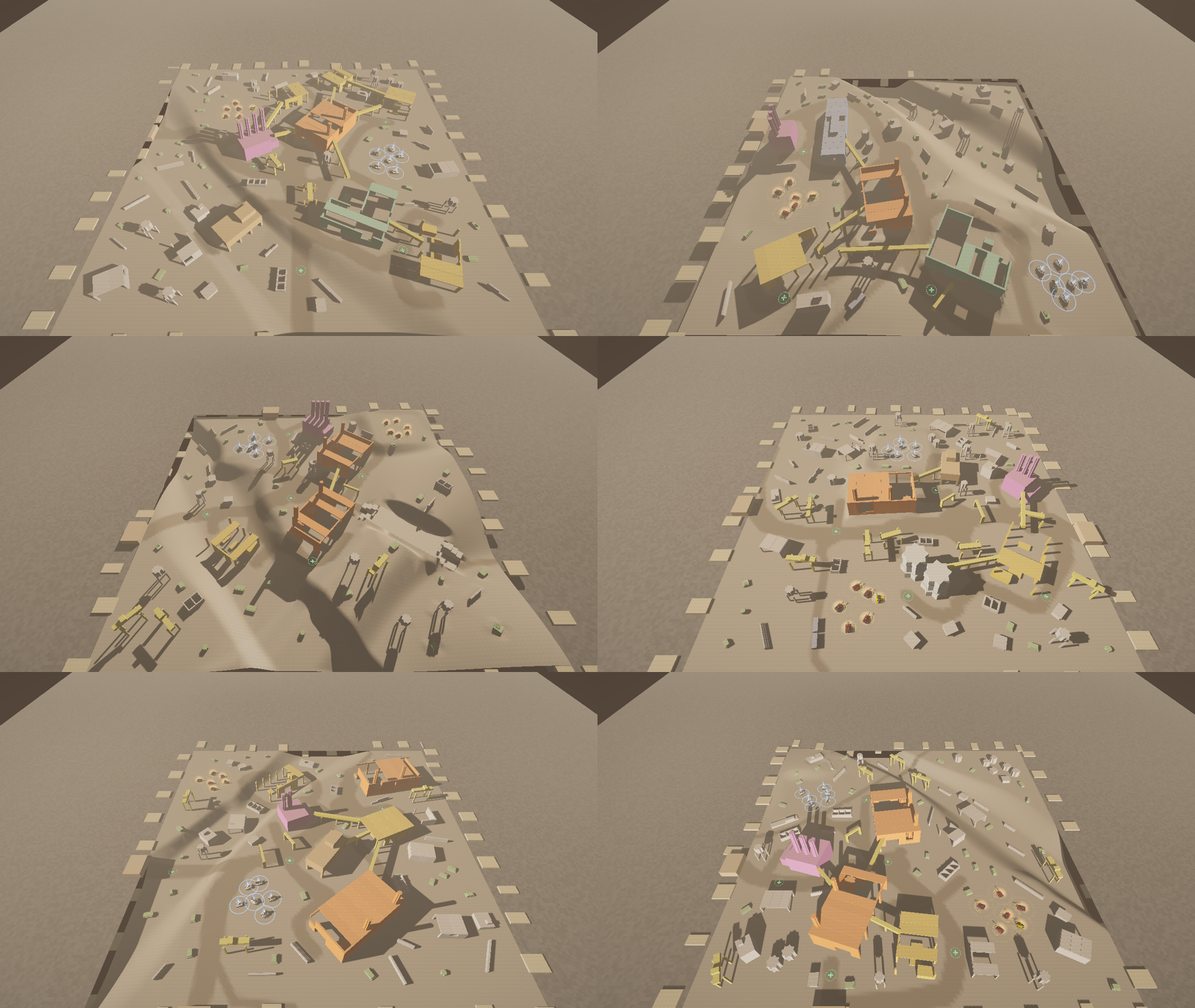
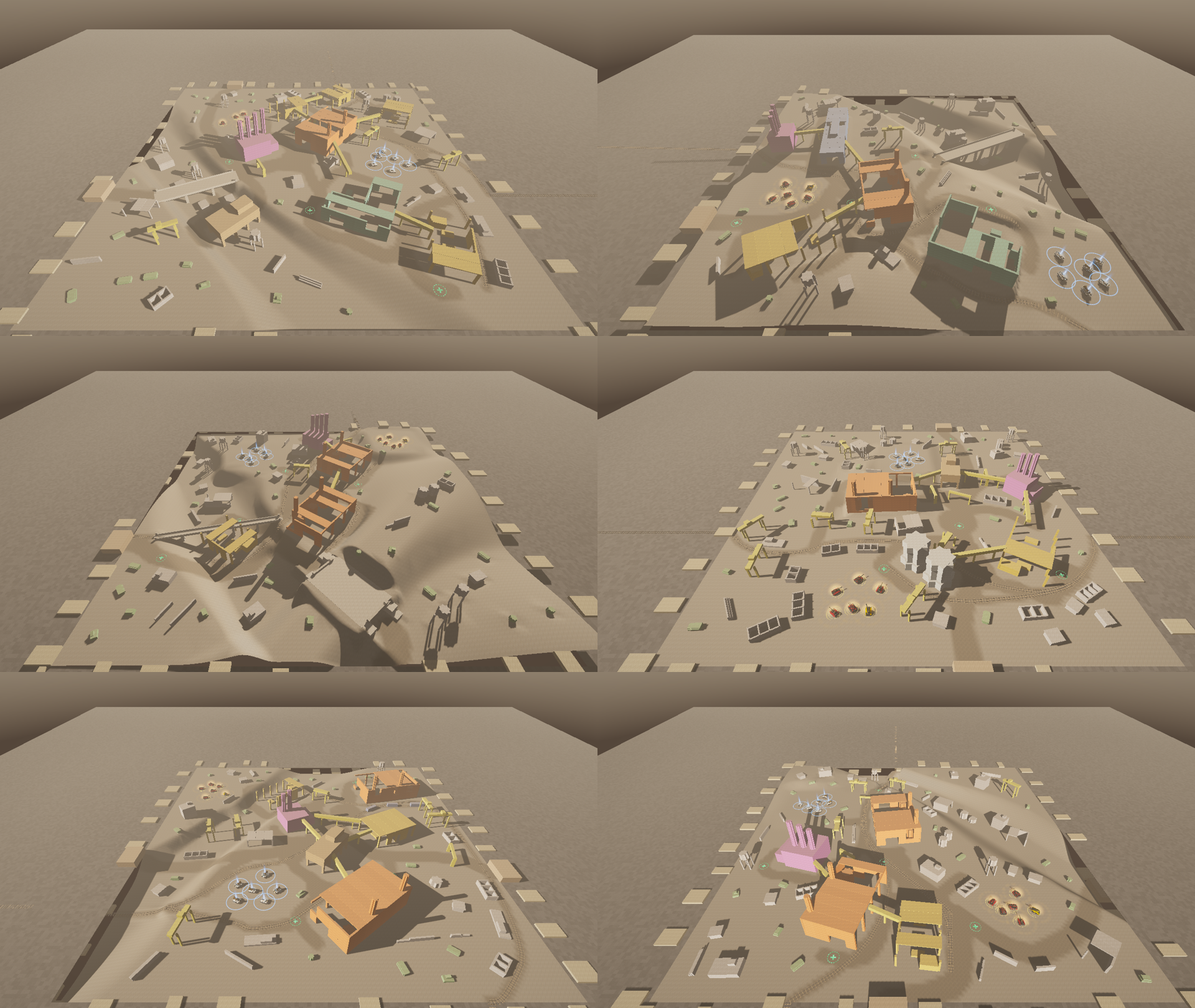
Foundry railways: on and off the map, graded, bridged, with spurs (WIP)
Claude-Session: https://claude.ai/code/session_01MEmTqE22jbLkJq7ubPzYog

diff --git a/src/map/procgen/foundry/plan.rs b/src/map/procgen/foundry/plan.rs
@@ -70,6 +70,7 @@ pub fn skeleton(rng: &mut Rng, look: Look) -> Skeleton {
         decos: Vec::new(),
         repair_spots: Vec::new(),
         crossings: Vec::new(),
+        rails: Vec::new(),
     };
     let a = rng.range(0.0, TAU);
     let habit = match look {
@@ -79,7 +80,9 @@ pub fn skeleton(rng: &mut Rng, look: Look) -> Skeleton {
         Look::Ithessar => Habit::Ring,
     };
     plant(&mut sk, rng, habit);
+    railway(&mut sk, rng);
     roads(&mut sk, rng);
+    bed(&mut sk);
     yard(&mut sk, rng);
     cover(&mut sk, rng);
     repairs(&mut sk, rng);
@@ -361,7 +364,167 @@ fn lay(
     true
 }
 
-/// The railway across, the haul road past the heart, a road to every door
+/// Corners cut off, twice: as easy a curve as a train wants.
+fn eased(pts: &[Vec2]) -> Vec<Vec2> {
+    let mut line = pts.to_vec();
+    for _ in 0..2 {
+        let mut out = vec![line[0]];
+        for w in line.windows(3) {
+            out.push(w[1].lerp(w[0], 0.25));
+            out.push(w[1].lerp(w[2], 0.25));
+        }
+        out.push(*line.last().unwrap());
+        out.dedup_by(|p, q| p.distance(*q) < 0.5);
+        line = out;
+    }
+    line
+}
+
+/// How far past the edge a line's seen running on.
+const RUN_ON: f32 = 150.0;
+
+/// The railway: in over one edge, by the buildings it serves, out over
+/// another; then spurs off it to others.
+fn railway(sk: &mut Skeleton, rng: &mut Rng) {
+    let size = sk.size;
+    let half = 2.6;
+    // Beside a building, along its long wall.
+    let halt = |l: &Lot, s: f32| {
+        let (ax, az) = l.footprint.axes();
+        let h = l.footprint.half;
+        let off = ax * s * (h.x + half + 3.0);
+        (l.at() + off - az * h.y, l.at() + off + az * h.y)
+    };
+    let clear = |sk: &Skeleton, p: Vec2| {
+        p.min_element() > 8.0
+            && p.max_element() < size - 8.0
+            && sk.lots.iter().all(|l| l.footprint.distance(p) > half + 1.6)
+            && sk.bases.iter().all(|b| b.middle().distance(p) > PAD + half)
+    };
+    let big: Vec<Lot> = sk.lots.clone();
+    let add = |sk: &mut Skeleton, pts: &[Vec2]| {
+        for w in pts.windows(2) {
+            sk.streets.push(Street {
+                from: w[0],
+                to: w[1],
+                half,
+                clear: 2.0,
+                rank: Rank::Rail,
+                out: false,
+            });
+        }
+    };
+    for _ in 0..60 {
+        let (k, turn) = (rng.index(4), 1 + rng.index(3));
+        let ends = [k, k + turn].map(|e| {
+            let (start, along, inward) = city::sides(size)[e % 4];
+            (start + along * size * rng.range(0.15, 0.85), -inward)
+        });
+        let serve = big[rng.index(big.len())];
+        let (p, q) = halt(&serve, if rng.chance(0.5) { 1.0 } else { -1.0 });
+        if ends[0].0.distance(ends[1].0) < size * 0.6
+            || ![p, q, p.lerp(q, 0.5)].iter().all(|&x| clear(sk, x))
+        {
+            continue;
+        }
+        let (p, q) = if p.distance(ends[0].0) < q.distance(ends[0].0) {
+            (p, q)
+        } else {
+            (q, p)
+        };
+        let (Some(a), Some(b)) = (
+            way(sk, rng, (ends[0].0, p), half),
+            way(sk, rng, (q, ends[1].0), half),
+        ) else {
+            continue;
+        };
+        let pts: Vec<Vec2> = a.into_iter().chain(b).collect();
+        // Not back on itself.
+        let sharp = pts.windows(3).any(|w| {
+            let (d, e) = (w[1] - w[0], w[2] - w[1]);
+            d.normalize_or(Vec2::X).dot(e.normalize_or(Vec2::X)) < 0.1
+        });
+        if sharp {
+            continue;
+        }
+        let line = eased(&pts);
+        add(sk, &line);
+        let mut whole = vec![ends[0].0 + ends[0].1 * RUN_ON];
+        whole.extend(&line);
+        whole.push(ends[1].0 + ends[1].1 * RUN_ON);
+        sk.rails.push(whole);
+        break;
+    }
+    let Some(main) = sk.rails.first().cloned() else {
+        return;
+    };
+    // Spurs: off the line, up to another building's wall.
+    let mut want = rng.int(1, 2);
+    for _ in 0..40 {
+        if want == 0 {
+            break;
+        }
+        let l = big[rng.index(big.len())];
+        let (p, q) = halt(&l, if rng.chance(0.5) { 1.0 } else { -1.0 });
+        let k = 2 + rng.index(main.len().saturating_sub(4).max(1));
+        let Some(&from) = main.get(k) else { continue };
+        let far = main
+            .iter()
+            .all(|m| m.distance(p) > 22.0 && m.distance(q) > 22.0);
+        if !far || !clear(sk, p) || !clear(sk, q) || !clear(sk, from) {
+            continue;
+        }
+        let (p, q) = if p.distance(from) < q.distance(from) {
+            (p, q)
+        } else {
+            (q, p)
+        };
+        if let Some(mut pts) = way(sk, rng, (from, p), half) {
+            pts.push(q);
+            // It leaves the line the way the line runs, near enough.
+            let lead = (main[k] - main[k - 1]).normalize_or(Vec2::X);
+            let turn = (pts[1] - pts[0]).normalize_or(Vec2::X).dot(lead).abs();
+            if turn < 0.5 {
+                continue;
+            }
+            let line = eased(&pts);
+            add(sk, &line);
+            sk.rails.push(line);
+            want -= 1;
+        }
+    }
+}
+
+/// Grades the ground under the rails, off the bridges and tunnels.
+fn bed(sk: &mut Skeleton) {
+    for line in sk.rails.clone() {
+        let mut fine = Vec::new();
+        for w in line.windows(2) {
+            let n = (w[0].distance(w[1]) / 4.0).ceil().max(1.0) as i32;
+            fine.extend((0..n).map(|k| w[0].lerp(w[1], k as f32 / n as f32)));
+        }
+        let h: Vec<f32> = fine.iter().map(|&p| sk.land.base(p)).collect();
+        for k in 1..fine.len().saturating_sub(1) {
+            let p = fine[k];
+            let outside = p.min_element() < -8.0 || p.max_element() > sk.size + 8.0;
+            if outside || sk.crossings.iter().any(|c| c.distance(p) < 16.0) {
+                continue;
+            }
+            let (a, b) = (k.saturating_sub(5), (k + 6).min(h.len()));
+            let mean = h[a..b].iter().sum::<f32>() / (b - a) as f32;
+            let d = fine[k + 1] - fine[k - 1];
+            let strip = OBox {
+                center: p,
+                yaw: d.x.atan2(d.y),
+                half: Vec2::new(1.6, 2.4),
+                ..OBox::default()
+            };
+            sk.land.level_at(strip, 0.8, 5.0, mean);
+        }
+    }
+}
+
+/// The haul road past the heart, a road to every door
 /// and base, and a few more to make loops of it.
 fn roads(sk: &mut Skeleton, rng: &mut Rng) {
     let size = sk.size;
@@ -383,15 +546,6 @@ fn roads(sk: &mut Skeleton, rng: &mut Rng) {
                 mouths[side % 4].push((t - 9.0, t + 9.0));
                 break;
             }
-        }
-    }
-    // The railway, clear across, off to one side of it.
-    let r = rng.index(4);
-    for _ in 0..24 {
-        let other = r + 1 + rng.index(3);
-        let (a, b) = (edge(rng, r), edge(rng, other));
-        if a.distance(b) > size * 0.6 && lay(sk, rng, (a, b), 2.6, Rank::Rail, true) {
-            break;
         }
     }
     // Doors and bases onto the nearest road so far, nearest first.

diff --git a/src/map/procgen/skeleton.rs b/src/map/procgen/skeleton.rs
@@ -45,6 +45,8 @@ pub struct Skeleton {
     pub repair_spots: Vec<Vec2>,
     /// Where roads cross valleys and ridges.
     pub crossings: Vec<super::crossing::Crossing>,
+    /// Railway lines, each along its bends (past the edge, where it runs out).
+    pub rails: Vec<Vec<Vec2>>,
 }
 
 /// Raised ground: a rounded square, flat on top, sloping down over `ramp`
@@ -473,6 +475,56 @@ impl Skeleton {
         })
     }
 
+    /// Puts down the railways' track: rails on sleepers, over the ground or
+    /// a bridge's deck. Nothing that stops a tank.
+    pub fn lay_rails(&self, map: &mut Map) {
+        let y = |p: Vec2| {
+            let deck = self
+                .crossings
+                .iter()
+                .filter(|c| c.kind == super::crossing::Kind::Bridge && c.distance(p) < c.half)
+                .map(|c| c.top);
+            deck.fold(self.ground(p), f32::max)
+        };
+        for line in &self.rails {
+            for w in line.windows(2) {
+                let len = w[0].distance(w[1]);
+                let d = (w[1] - w[0]) / len.max(1e-3);
+                let yaw = d.x.atan2(d.y);
+                let n = (len / 1.6).round().max(1.0) as i32;
+                for k in 0..n {
+                    let p = w[0] + d * len * (k as f32 + 0.5) / n as f32;
+                    let h = y(p);
+                    map.oboxes.push(OBox {
+                        center: p,
+                        yaw,
+                        half: Vec2::new(1.4, 0.18),
+                        y0: h - 0.3,
+                        y1: h + 0.08,
+                        color: Vec3::new(0.3, 0.23, 0.17),
+                        side_mat: Material::Wood,
+                        top_mat: Material::Wood,
+                        solid: false,
+                        ..OBox::default()
+                    });
+                }
+                let side = Vec2::new(-d.y, d.x) * 0.75;
+                let (a, b) = (y(w[0]) + 0.16, y(w[1]) + 0.16);
+                for s in [side, -side] {
+                    let (p, q) = (w[0] + s, w[1] + s);
+                    map.segment(
+                        Vec3::new(p.x, a, p.y),
+                        Vec3::new(q.x, b, q.y),
+                        0.08,
+                        Vec3::new(0.36, 0.34, 0.33),
+                        Material::Metal,
+                        false,
+                    );
+                }
+            }
+        }
+    }
+
     /// Once everything's built: each side's spawns in its court, the open
     /// spots, and the repair drops that landed clear.
     pub fn finish(&self, map: &mut Map) {
@@ -597,6 +649,7 @@ impl Skeleton {
         for c in &self.crossings {
             c.build(&mut map, stone, |p| self.ground(p));
         }
+        self.lay_rails(&mut map);
         for lot in &self.lots {
             let f = &lot.footprint;
             if let LotKind::Works(part) = lot.kind {

diff --git a/src/map/procgen/foundry/tests.rs b/src/map/procgen/foundry/tests.rs
@@ -246,6 +246,7 @@ fn bots_fight_through_the_foundry() {
 fn plans_play_and_some_cross() {
     use crate::map::procgen::crossing::Kind;
     let (mut bridges, mut tunnels, mut big, mut lots) = (0, 0, 0, 0);
+    let (mut railed, mut spurs) = (0, 0);
     for seed in 0..24 {
         let sp = spec(seed, LOOKS[seed as usize % 4]);
         let sk = works_plan(&sp);
@@ -253,6 +254,8 @@ fn plans_play_and_some_cross() {
             panic!("seed {seed}: {why}");
         }
         let has = |k: Kind| sk.crossings.iter().any(|c| c.kind == k) as i32;
+        railed += !sk.rails.is_empty() as i32;
+        spurs += sk.rails.len().saturating_sub(1);
         bridges += has(Kind::Bridge);
         tunnels += has(Kind::Tunnel);
         use crate::map::procgen::skeleton::LotKind;
@@ -263,6 +266,9 @@ fn plans_play_and_some_cross() {
             .count();
         lots += sk.lots.len();
     }
-    eprintln!("of 24: {bridges} with bridges, {tunnels} with tunnels; {big} big, {lots} parts");
+    eprintln!(
+        "of 24: {bridges} with bridges, {tunnels} with tunnels; {big} big, {lots} parts; {railed} railed, {spurs} spurs"
+    );
+    assert!(railed >= 22, "{railed} of 24 have a railway");
     assert!(bridges > 0 && tunnels > 0, "{bridges} {tunnels}");
 }

diff --git a/src/map/procgen/city.rs b/src/map/procgen/city.rs
@@ -435,6 +435,7 @@ pub fn skeleton(rng: &mut Rng, sides: usize, plan: &Plan) -> Skeleton {
         decos: Vec::new(),
         repair_spots: Vec::new(),
         crossings: Vec::new(),
+        rails: Vec::new(),
     };
     // The land, its great shapes kept off the great buildings and courts.
     let avoid: Vec<(Vec2, f32)> = sk

diff --git a/src/map/procgen/desert/skeleton.rs b/src/map/procgen/desert/skeleton.rs
@@ -177,6 +177,7 @@ impl Skeleton {
             decos: Vec::new(),
             repair_spots: Vec::new(),
             crossings: Vec::new(),
+            rails: Vec::new(),
         };
         let out = |rng: &mut Rng, dir: Vec2| {
             mid + dir * (size * 0.5 + 40.0) + dir.perp() * rng.range(-30.0, 30.0)
